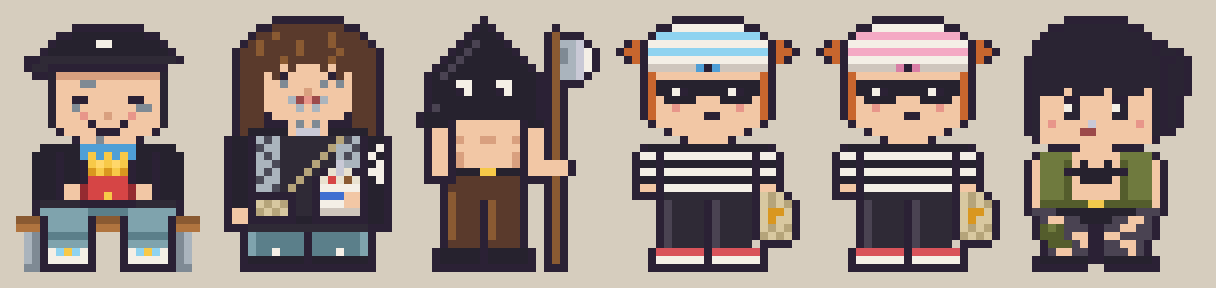
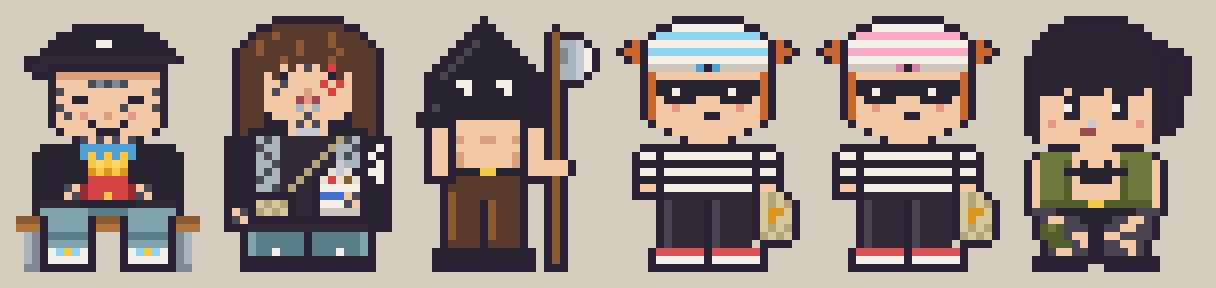
Draft sprites: more tattoos for code10 and code80, red tattoo by code80's eye
Claude-Session: https://claude.ai/code/session_01NFtA4E3DC73s1YrvBRZofP

diff --git a/drafts/workers-code-palach-thief.js b/drafts/workers-code-palach-thief.js
@@ -1,11 +1,11 @@
 // Черновик сотрудников: code10 (14), code80 (15), Палач (16), Воришка (17). В игру ещё не вставлены, ждут одобрения. Перки и скиллы ещё обсуждаются (docs/employees.md, раздел «План: code10/code80, Палач, Воришка»).
 // Спрайты 23×32, RLE как в game/index.html. Превью drafts/code-palach-thief-preview.png (Воришка в двух цветах, справа для сравнения Ворона). Новых цветов в PAL нет.
 
-// ===== code10: сидит на деревянной лавочке. Чёрная кепка набок с белым значком, короткие тёмные волосы, тату на лице, довольная улыбка с прищуром. Чёрное худи нараспашку поверх голубой клетчатой рубашки, на коленях красная коробка картошки фри, светлые джинсы, белые кроссовки с голубым и жёлтым =====
-  const CODE10 = ['23.', '7.9k7.', '5.2k9b2k5.', '4.k5b2w6bk4.', '3.k15bk3.', '.2k17Nk2.', '.k2N15k4.', '2.2kh13Sh4.', '4.h3s2A8sh4.', '4.h13sh4.', '4.h2s2k5s2k2sh4.', '4.h2sA7s2Ash4.', '4.h3sc2sS2sc3sh4.', '4.h4sk3sk4sh4.', '5.k4s3k4sk5.', '7.k2sA4sk7.', '3.5b7_5b3.', '2.3bk2b_Z_Z_Z_2bk3b2.', '2.3bk2bkZ*Z*Zk2bk3b2.', '2.3bk2bkXZXZXk2bk3b2.', '2.3bk2bk5$k2bk3b2.', '2.3bk2s%5$%2sk3b2.', '2.3bk2s%2$Z2$%2sk3b2.', '2.k5N7k5Nk2.', '2.k6T5t6Tk2.', '3Ck5Tk3Ck5Tk3C', '3\'k5Tk3\'k5Tk3\'', '.aAk5tk3.k5tkAa.', '.aAk5Tk3.k5TkAa.', '.aAkw?Z?wk3.kw?Z?wkAa.', '.aAk5wk3.k5wkAa.', '.2A7k3.7k2A.'];
+// ===== code10: сидит на деревянной лавочке. Чёрная кепка набок с белым значком, короткие тёмные волосы, много тату на лице, шее и руках, довольная улыбка с прищуром. Чёрное худи нараспашку поверх голубой клетчатой рубашки, на коленях красная коробка картошки фри, светлые джинсы, белые кроссовки с голубым и жёлтым =====
+  const CODE10 = ['23.', '7.9k7.', '5.2k9b2k5.', '4.k5b2w6bk4.', '3.k15bk3.', '.2k17Nk2.', '.k2N15k4.', '2.2kh13Sh4.', '4.h4sgAgAg4sh4.', '4.hg11sgh4.', '4.h2s2k5s2k2sh4.', '4.hg7sg3sgh4.', '4.hsgsc2sS2sc3sh4.', '4.h4sk3sk4sh4.', '5.k4s3k4sk5.', '7.kgsgsgsgk7.', '3.5b7_5b3.', '2.3bk2b_Z_Z_Z_2bk3b2.', '2.3bk2bkZ*Z*Zk2bk3b2.', '2.3bk2bkXZXZXk2bk3b2.', '2.3bk2bk5$k2bk3b2.', '2.3bkgs%5$%sgk3b2.', '2.3bksg%2$Z2$%gsk3b2.', '2.k5N7k5Nk2.', '2.k6T5t6Tk2.', '3Ck5Tk3Ck5Tk3C', '3\'k5Tk3\'k5Tk3\'', '.aAk5tk3.k5tkAa.', '.aAk5Tk3.k5TkAa.', '.aAkw?Z?wk3.kw?Z?wkAa.', '.aAk5wk3.k5wkAa.', '.2A7k3.7k2A.'];
 
-// ===== code80: длинные лохматые каштановые волосы с чёлкой до глаз, тату на лице, пирсинг на губе и под губой, тату на шее, цепочка. Чёрное худи с белыми готическими буквами на рукаве, серый шарф с узором, бежевая сумка через плечо, в руке стаканчик мороженого с ложкой (макфлури, без логотипа), джинсы, чёрные кроссовки =====
-  const CODE80 = ['7.9k7.', '5.2k9B2k5.', '4.k2BC6BC3Bk4.', '3.kBC4BC3BC4Bk3.', '2.k2BC4BC4BC4Bk2.', '2.k5BC5BC5Bk2.', '2.k5BsB3sBs5Bk2.', '2.k3BsBk5skBs3Bk2.', '2.k3B2sA4sAsAs3Bk2.', '2.k3B5sS5s3Bk2.', '2.k3B3samcma3s3Bk2.', '2.k3B4sasa4s3Bk2.', '2.k3Bk9sk3Bk2.', '2.k3B3ksAsAs3k3Bk2.', '2.kBb4bsppps4bbBk2.', '.k2bkaga7NFgak2bk.', '.k2bkgaa6NFaagkbwk.', '.k2bkaga5NFNagakwbk.', '.k2bkaag4NF2Npaakbwk.', '.k2bkaga3NFNkxpxkkwwk.', '.k2bkgaa2NFNkx$xCxkbwk.', '.k2bkaagNF2Nk5wk2bk.', '.k2b6k2Nk3@2sk2bk.', '.k2bkfFfFk2Nk3w2sk2bk.', '.k2skFfFfk2Nk5Dk2bk.', '.k2s6k2b7k2bk.', '.3k15N3k.', '3.kT6tk6tTk3.', '3.kT6tk6tTk3.', '3.kT2tw3tk3tw2tTk3.', '3.k7bk7bk3.', '3.17k3.'];
+// ===== code80: длинные лохматые каштановые волосы с чёлкой до глаз, красная тату у правого глаза, много тёмных тату на лице, шее и руках, пирсинг на губе и под губой, цепочка. Чёрное худи с белыми готическими буквами на рукаве, серый шарф с узором, бежевая сумка через плечо, в руке стаканчик мороженого с ложкой (макфлури, без логотипа), джинсы, чёрные кроссовки =====
+  const CODE80 = ['7.9k7.', '5.2k9B2k5.', '4.k2BC6BC3Bk4.', '3.kBC4BC3BC4Bk3.', '2.k2BC4BC4BC4Bk2.', '2.k5BC5BC5Bk2.', '2.k5BsBsgsB$5Bk2.', '2.k3BsBk5skBs3Bk2.', '2.k3B2sg4s$s$s3Bk2.', '2.k3Bsg3sS2s$2s3Bk2.', '2.k3B4smcm4s3Bk2.', '2.k3B4sasa4s3Bk2.', '2.k3Bk4sg4sk3Bk2.', '2.k3B3ksgsgs3k3Bk2.', '2.kBb4bsppps4bbBk2.', '.k2bkaga7NFgak2bk.', '.k2bkgaa6NFaagkbwk.', '.k2bkaga5NFNagakwbk.', '.k2bkaag4NF2Npaakbwk.', '.k2bkaga3NFNkxpxkkwwk.', '.k2bkgaa2NFNkx$xCxkbwk.', '.k2bkaagNF2Nk5wk2bk.', '.k2b6k2Nk3@sgk2bk.', '.k2bkfFfFk2Nk3wgsk2bk.', '.ksgkFfFfk2Nk5Dk2bk.', '.kgs6k2b7k2bk.', '.3k15N3k.', '3.kT6tk6tTk3.', '3.kT6tk6tTk3.', '3.kT2tw3tk3tw2tTk3.', '3.k7bk7bk3.', '3.17k3.'];
 
 // ===== Палач: чёрный остроконечный капюшон с прорезями для глаз, голый торс, ремень с золотой пряжкой, коричневые штаны, чёрные сапоги. Держит большой топор, топорище до земли =====
   const PALACH = ['8.k7.7.', '7.kbk6..k5.', '6.k3bk5.kC3k2.', '5.kbV3bk4.kCaapk.', '4.kbV5bk3.kCAapwk', '3.kbV7bk2.kCAapwk', '2.kbV9bk.kCaapwk', '.kbV11bkkCaapk.', '.k3b2w3b2w3bkkC3k2.', '.k3bkw3bkw3bkkCk4.', '.k13bkkCk4.', '.kV12bkkCk4.', 'k14bkkCk4.', 'k3bk8sk2bkCk4.', '.k2sk8sk2skCk4.', '.k2skS2s2S2sSk2skCk4.', '.k2sk8sk2skCk4.', '.k2skS6sSk2skCk4.', '.k2skS6sSk2s3sk3.', '.k2sk3b2Z3bk2s3sk3.', '.4k8B3kkCk4.', '3.k9Bk2.kCk4.', '3.kC8Bk2.kCk4.', '3.kC3BkC3Bk2.kCk4.', '3.kC3BkC3Bk2.kCk4.', '3.kC3BkC3Bk2.kCk4.', '3.kC3BkC3Bk2.kCk4.', '3.kC3BkC3Bk2.kCk4.', '3.k4BkB3Bk2.kCk4.', '2.k5bk5bk.kCk4.', '2.k5bk5bk.kCk4.', '2.13k.3k4.'];

diff --git a/docs/employees.md b/docs/employees.md
@@ -166,7 +166,7 @@
 
 Спрайты в `drafts/workers-code-palach-thief.js`, превью `drafts/code-palach-thief-preview.png` (Воришка в двух цветах, справа для сравнения Ворона). Новых цветов в `PAL` нет. Перки, скиллы, статы и когда приходят, ещё обсуждаются.
 
-- **code10** (14, рэпер, референс от игрока): тот же человек, что code80 (Юрий Матюшевский, русский SoundCloud-рэп), отличаются любимой едой: code10 больше любит картошечку. Сидит на деревянной лавочке. Чёрная кепка набок с белым значком, тату на лице, довольная улыбка с прищуром, чёрное худи нараспашку поверх голубой клетчатой рубашки, на коленях красная коробка картошки фри, светлые джинсы, белые кроссовки с голубым и жёлтым. Сидит, поэтому ниже остальных, лавочка входит в кадр 23×32.
-- **code80** (15, референс от игрока): больше любит макфлури. Длинные лохматые каштановые волосы с чёлкой до глаз, тату на лице и шее, пирсинг на губе и под губой, цепочка. Чёрное худи с белыми готическими буквами на рукаве, серый шарф с узором, бежевая сумка через плечо, в руке стаканчик мороженого с ложкой (без логотипа), джинсы, чёрные кроссовки.
+- **code10** (14, рэпер, референс от игрока): тот же человек, что code80 (Юрий Матюшевский, русский SoundCloud-рэп), отличаются любимой едой: code10 больше любит картошечку. Сидит на деревянной лавочке. Чёрная кепка набок с белым значком, много тату на лице, шее и руках, довольная улыбка с прищуром, чёрное худи нараспашку поверх голубой клетчатой рубашки, на коленях красная коробка картошки фри, светлые джинсы, белые кроссовки с голубым и жёлтым. Сидит, поэтому ниже остальных, лавочка входит в кадр 23×32.
+- **code80** (15, референс от игрока): больше любит макфлури. Длинные лохматые каштановые волосы с чёлкой до глаз, красная тату у правого глаза, много тёмных тату на лице, шее и руках, пирсинг на губе и под губой, цепочка. Чёрное худи с белыми готическими буквами на рукаве, серый шарф с узором, бежевая сумка через плечо, в руке стаканчик мороженого с ложкой (без логотипа), джинсы, чёрные кроссовки.
 - **Палач** (16): чёрный остроконечный капюшон с прорезями для глаз, голый торс, ремень с золотой пряжкой, коричневые штаны, чёрные сапоги, большой топор, топорище до земли.
 - **Воришка** (17, она): на голове белые трусики в полоску с бантиком, рыжие хвостики торчат из дырок для ног. Чёрная маска на глазах, полосатая кофта, чёрные штаны, красные кеды, мешок с добычей. Цвет полосок (голубой или розовый) меняется от соседей по шкафчику, розовый делается заменой цветов, как скины Кастомки.
